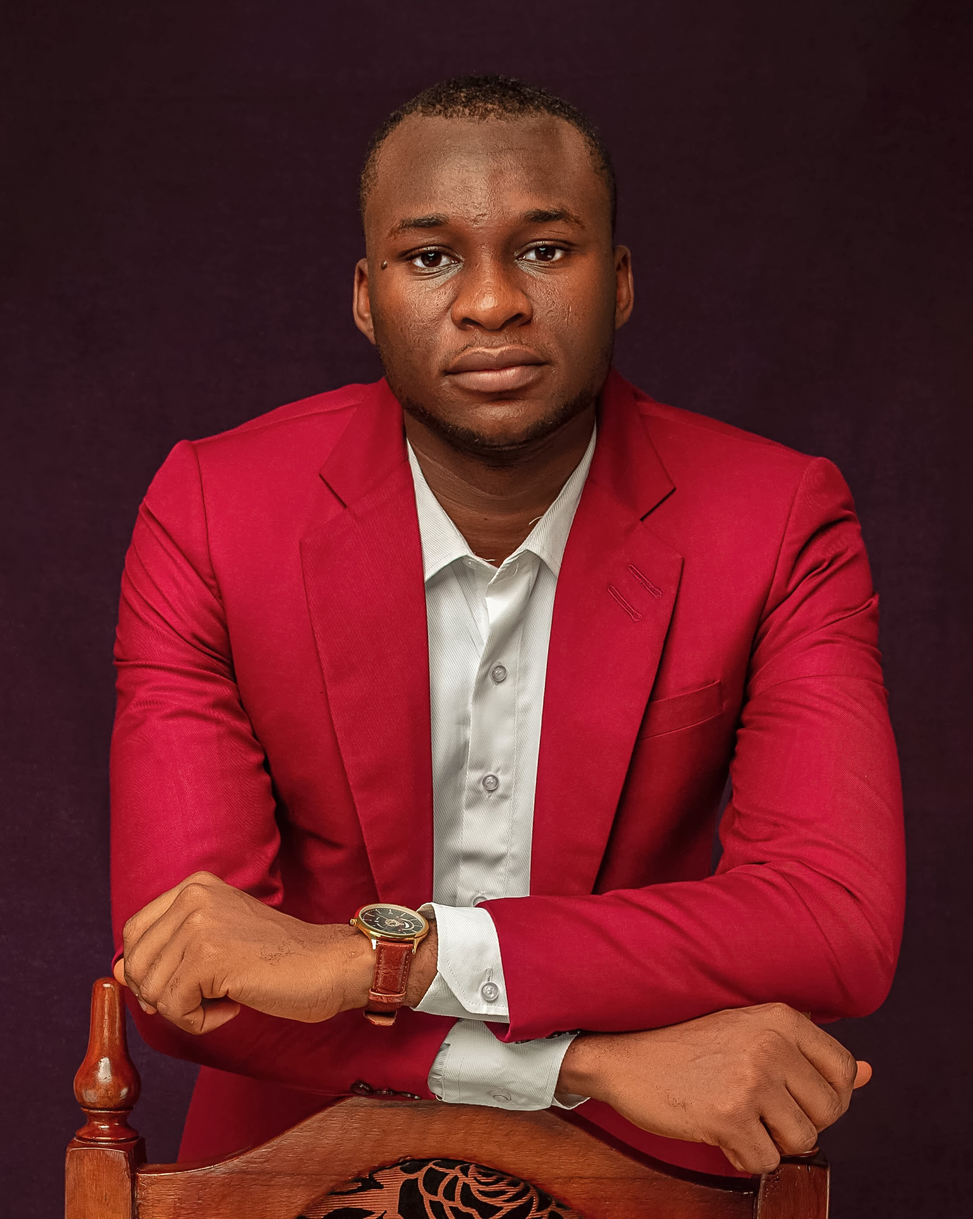
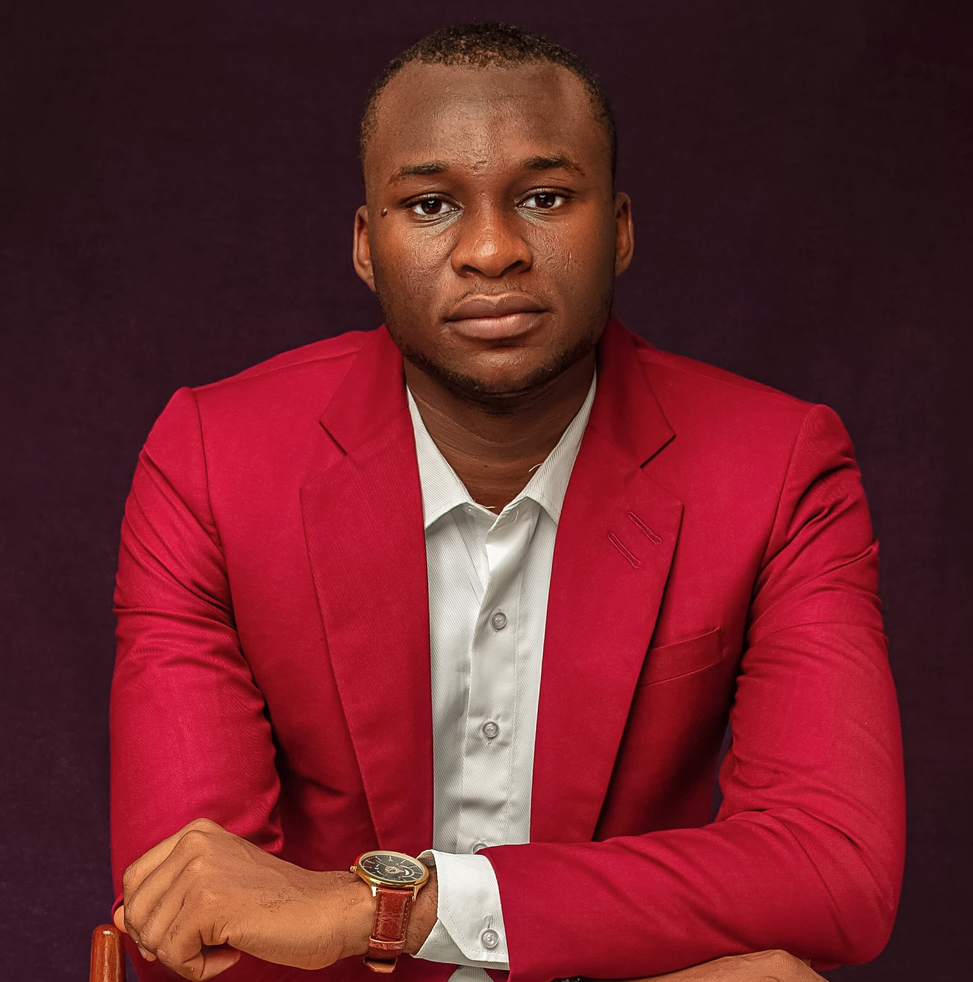
latest

diff --git a/app/page.js b/app/page.js
@@ -4,7 +4,7 @@ import { motion } from "framer-motion";
 import { useState } from "react";
 import Image from "next/image";
 import Logo from "../public/logo.png";
-import { AnimatePresence } from "framer-motion";
+import myPic from "../public/me.jpg";
 
 export default function Home() {
   const [showMenu, setShowMenu] = useState(false);
@@ -35,9 +35,9 @@ export default function Home() {
           animate={{ opacity: 1, y: 0 }}
           exit={{ opacity: 0, y: -20 }}
           transition={{ duration: 0.4, ease: "easeOut" }}
-          className="w-full flex flex-row justify-between fixed top-10 z-20 px-10"
+          className="w-full flex flex-row justify-end fixed top-10 z-20 px-10"
         >
-          <Image width={50} height={50} src={Logo} alt="logo"></Image>
+          {/* <Image width={50} height={50} src={Logo} alt="logo"></Image> */}
           <motion.div
             whileHover={{ scale: 1.1 }}
             transition={{ duration: 0.5 }}
@@ -72,7 +72,6 @@ export default function Home() {
           </motion.div>
         </motion.nav>
       )}
-
       {/* hero section */}
       <section className="flex w-full flex-col items-center justify-center text-[2rem] mt-35">
         <p className="absolute uppercase -rotate-90 -left-25 text-sm top-100 tracking-[0.3rem]">
@@ -110,7 +109,6 @@ export default function Home() {
           Todo and Task App
         </a> */}
       </section>
-
       {/* about me  */}
       <motion.section
         initial={{
@@ -240,6 +238,110 @@ export default function Home() {
             perfect.
           </motion.p>
         </motion.div>
+      </motion.section>
+      {/* picture */}
+      <motion.section
+        initial="hidden"
+        whileInView="visible"
+        variants={{
+          hidden: { borderRadius: "0" },
+          visible: {
+            borderRadius: "60%/ 0 0 10% 10%",
+            transition: {
+              duration: 0.5,
+              staggerChildren: 0.8,
+              delayChildren: 0,
+            },
+          },
+        }}
+        className="bg-[#E7D4B1] w-full p-8 "
+      >
+        <motion.p
+          variants={{
+            hidden: { opacity: 0, y: 30 },
+            visible: {
+              opacity: 1,
+              y: 0,
+              transition: {
+                duration: 2,
+                delay: 1,
+                type: "spring",
+                stiffness: 100,
+                damping: 12,
+                ease: "easeInOut",
+              },
+            },
+          }}
+          className="mt-4  text-center font-semibold text-[#3f2728] md:text-[2rem] lg:text-[2.5rem] text-[1.5rem]"
+        >
+          The Face Behind The Code ↴
+        </motion.p>
+
+        <motion.div
+          variants={{
+            hidden: { opacity: 0, scale: 0 },
+            visible: {
+              opacity: 1,
+              scale: 1,
+              transition: {
+                duration: 3.5,
+                delay: 1,
+                type: "spring",
+                stiffness: 100,
+                damping: 12,
+                ease: "easeInOut",
+              },
+            },
+          }}
+          className="mx-auto w-max bg-[#e7d4b1] my-6 "
+        >
+          <Image
+            variants={{
+              hidden: { opacity: 0, scale: 0 },
+              visible: {
+                opacity: 1,
+                scale: 1,
+                transition: {
+                  duration: 3.5,
+                  delay: 1,
+                  type: "spring",
+                  stiffness: 100,
+                  damping: 12,
+                  ease: "easeInOut",
+                },
+              },
+            }}
+            className="mx-auto rounded-2xl w-[440px] lg:w-[700px]"
+            src={myPic}
+            // width={500}
+            // height={500}
+            alt="my picture"
+          ></Image>
+        </motion.div>
+        <motion.p
+          variants={{
+            hidden: { opacity: 0, y: 30 },
+            visible: {
+              opacity: 1,
+              y: 0,
+              transition: {
+                duration: 2,
+                delay: 1.75,
+                type: "spring",
+                stiffness: 100,
+                damping: 12,
+                ease: "easeInOut",
+              },
+            },
+          }}
+          className="mt-4 mb-4 text-black md:text-[2rem] lg:text-[2.5rem] text-[1.5rem]"
+        >
+          Ochayi is a pharmacist and graphics designer who fell in love with
+          website design and frontend development.
+          <br />
+          The ultimate goal is user satisfaction after when using an app created
+          by me.
+        </motion.p>
       </motion.section>
     </div>
   );
